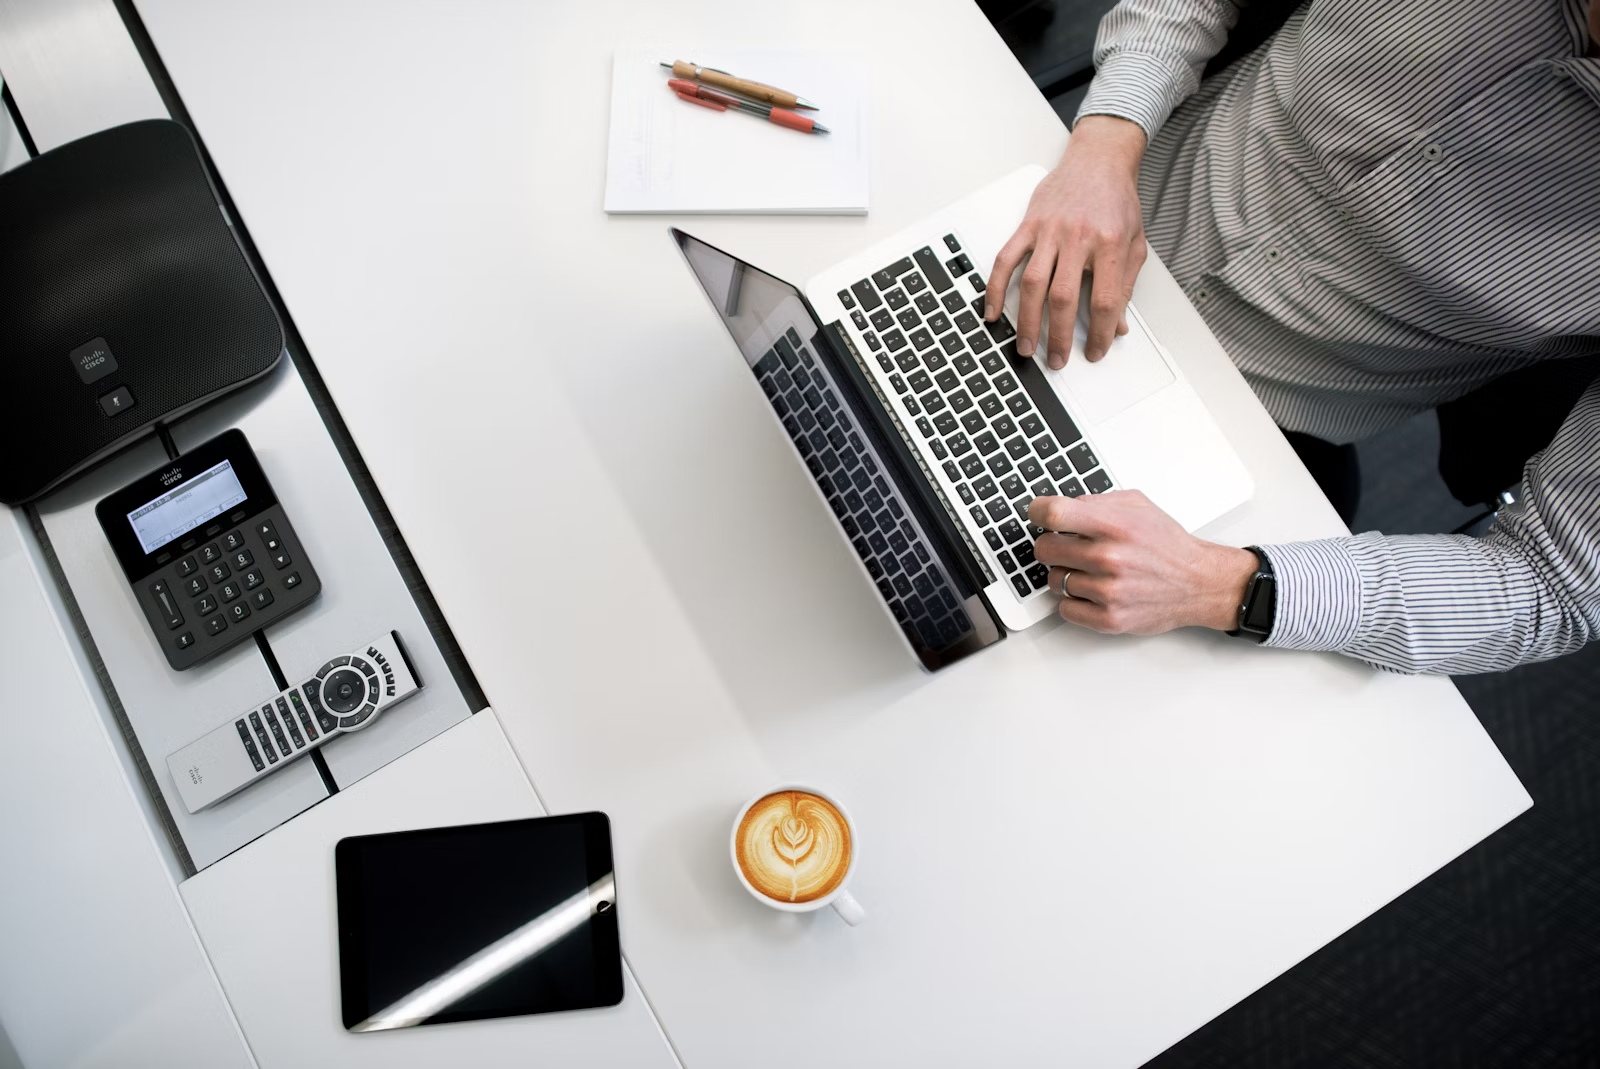
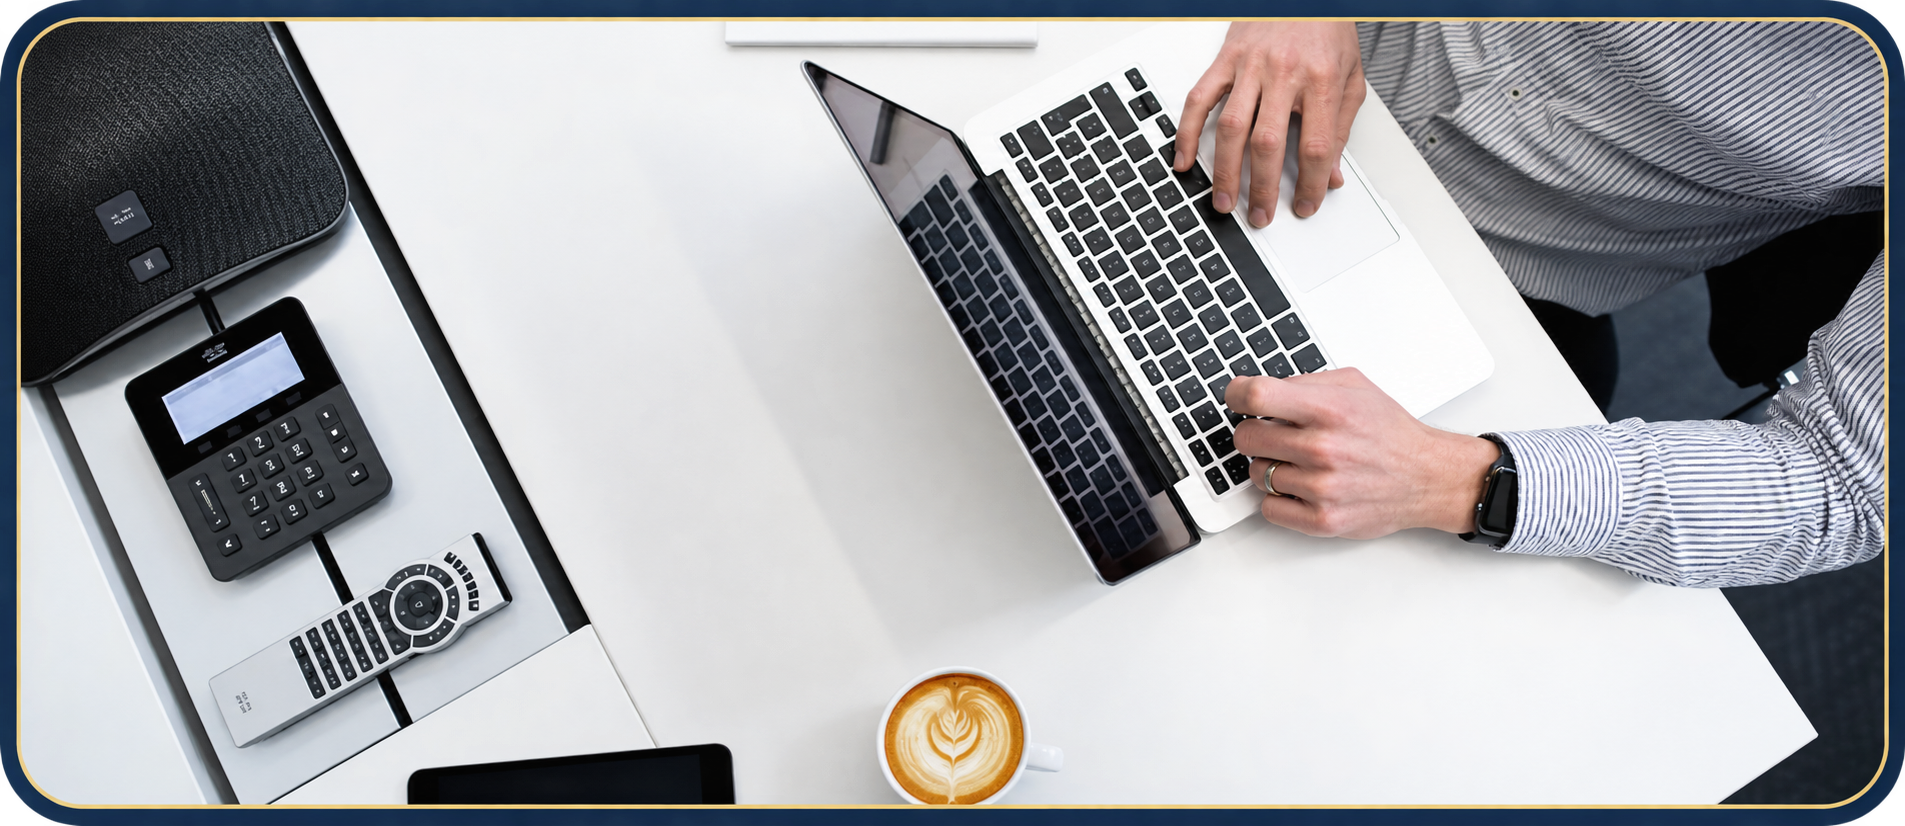
[UPDATE] Revise footer layout and content for improved clarity and aesthetics

diff --git a/src/components/Footer.tsx b/src/components/Footer.tsx
@@ -1,145 +1,84 @@
 "use client";
 import Link from "next/link";
-import Image from "next/image";
 import Logo from "./Logo";
+
+const heading = { fontFamily: "var(--font-heading)" };
+const city = "text-xs font-semibold uppercase tracking-[0.2em] text-[#1A2B6D]";
 
 export default function Footer() {
   return (
     <footer className="border-t bg-background">
-      <div className="mx-auto max-w-7xl px-4 sm:px-6 lg:px-8 py-16">
-        <div className="grid gap-12 md:grid-cols-4">
+      <div className="mx-auto max-w-7xl px-4 sm:px-6 lg:px-8 pt-8">
+        <div className="grid gap-8 md:grid-cols-2">
           {/* Logo et description */}
-          <div className="md:col-span-1">
-            <div className="mb-6">
-              <Link
-                href="/"
-                aria-label="Bilan Conseil Patrimoine — Accueil"
-                className="inline-flex items-center gap-3"
-              >
-                <Logo size="lg" />
-                <div className="flex flex-col items-center">
-                  <div className="flex items-center gap-2">
-                    <span className="text-lg font-semibold text-[#1A2B6D]" style={{ fontFamily: "var(--font-heading)" }}>BILAN</span>
-                    <span className="text-lg font-semibold text-[#1A2B6D]" style={{ fontFamily: "var(--font-heading)" }}>CONSEIL</span>
-                  </div>
-                  <span className="text-lg font-semibold text-[#1A2B6D]" style={{ fontFamily: "var(--font-heading)" }}>PATRIMOINE</span>
-                </div>
-              </Link>
-            </div>
-            <p className="text-sm text-muted-foreground leading-relaxed mb-6">
-            Cabinet indépendant de conseil patrimonial.<br />
-            Nous proposons un accompagnement sur mesure, alliant expertise, disponibilité et vision patrimoniale durable.
+          <div className="flex flex-col justify-center">
+            <Link
+              href="/"
+              aria-label="Bilan Conseil Patrimoine — Accueil"
+              className="inline-flex items-center gap-3 self-start"
+            >
+              <Logo size="lg" />
+              <span className="text-lg font-semibold leading-tight text-[#1A2B6D]" style={heading}>
+                BILAN CONSEIL<br />PATRIMOINE
+              </span>
+            </Link>
+            <p className="mt-4 max-w-sm text-sm text-[#1A2B6D] leading-relaxed">
+              Cabinet indépendant de conseil patrimonial.<br />
+              Nous proposons un accompagnement sur mesure, alliant expertise, disponibilité et vision patrimoniale durable.
             </p>
-            {/* Logo CNCGP */}
-            <div className="pt-4 border-t border-gray-200">
-              <Image
-                src="/logos/CNCGP.png"
-                alt="Logo CNCGP"
-                width={100}
-                height={50}
-                className="h-auto w-auto max-w-[100px] opacity-80"
-              />
-            </div>
-          </div>
-
-          {/* Navigation */}
-          <div>
-            <h4 className="text-sm font-semibold mb-6 text-foreground">Navigation</h4>
-            <ul className="space-y-4 text-sm">
-              <li><Link href="/notre-methode" className="text-muted-foreground hover:text-foreground hover:underline transition-colors">Notre méthode</Link></li>
-              <li><Link href="/qui-sommes-nous" className="text-muted-foreground hover:text-foreground hover:underline transition-colors">Qui sommes-nous</Link></li>
-              <li><Link href="/nos-expertises" className="text-muted-foreground hover:text-foreground hover:underline transition-colors">Nos expertises</Link></li>
-              <li><Link href="/nos-clients" className="text-muted-foreground hover:text-foreground hover:underline transition-colors">Nos clients</Link></li>
-              <li><Link href="/nos-partenaires" className="text-muted-foreground hover:text-foreground hover:underline transition-colors">Nos partenaires</Link></li>
-              <li><Link href="/contact" className="text-muted-foreground hover:text-foreground hover:underline transition-colors">Contact</Link></li>
-              <li><Link href="/mentions-legales" className="text-muted-foreground hover:text-foreground hover:underline transition-colors">Mentions légales</Link></li>
-              <li><Link href="/" className="text-muted-foreground hover:text-foreground hover:underline transition-colors">Accueil</Link></li>
-            </ul>
           </div>
 
           {/* Contact */}
           <div>
-            <h4 className="text-sm font-semibold mb-6 text-foreground">Contact</h4>
-            <ul className="space-y-4 text-sm">
-              <li className="text-muted-foreground">
-                <a href="mailto:contact@bilanconseilpatrimoine.com" className="hover:text-foreground hover:underline transition-colors">contact@bilanconseilpatrimoine.com</a>
-              </li>
-              <li className="text-muted-foreground">
-                229 rue saint honoré<br />
-                75001 Paris
-              </li>
-              <li className="text-muted-foreground">
-                Cours des bastions 13<br />
-                1205 Genève
-              </li>
-            </ul>
-          </div>
-
-          {/* Mentions légales */}
-          <div>
-            <h4 className="text-sm font-semibold mb-6 text-foreground">Mentions légales</h4>
-            <div className="space-y-4 text-sm text-muted-foreground">
-              <p>
-                <Link href="/mentions-legales" className="hover:text-foreground hover:underline transition-colors">Mentions légales</Link>
-              </p>
-              <p>ORIAS n° 24005582</p>
-              <p>Courtier en assurance</p>
-              
-              {/* Logos ORIAS et AMF */}
-              <div className="flex items-center gap-4 pt-2">
-                <div className="flex items-center gap-2">
-                  <Image
-                    src="/logos/orias.png"
-                    alt="Logo ORIAS"
-                    width={40}
-                    height={40}
-                    className="object-contain"
-                  />
-                  <span className="text-xs">ORIAS</span>
-                </div>
-                <div className="flex items-center gap-2">
-                  <Image
-                    src="/logos/AMF.png"
-                    alt="Logo AMF"
-                    width={40}
-                    height={40}
-                    className="object-contain"
-                  />
-                  <span className="text-xs">AMF</span>
-                </div>
-              </div>
-
-              {/* Réseaux sociaux */}
-              <div className="flex items-center gap-3 pt-2">
-                <Link
-                  href="https://linkedin.com/company/bilan-conseil-patrimoine"
-                  target="_blank"
-                  rel="noopener noreferrer"
-                  className="flex items-center gap-2 text-muted-foreground hover:text-foreground transition-colors"
-                >
-                  <svg className="h-5 w-5" fill="currentColor" viewBox="0 0 24 24">
+            <div className="flex items-start justify-between">
+              <Link
+                href="/contact"
+                className="inline-block border-b border-[#D4AF37] pb-1 text-xl text-[#1A2B6D] hover:opacity-80 transition-opacity"
+                style={heading}
+              >
+                Nous contacter
+              </Link>
+              <div className="flex items-center gap-4 text-muted-foreground">
+                <Link href="https://linkedin.com/company/bilan-conseil-patrimoine" target="_blank" rel="noopener noreferrer" aria-label="LinkedIn" className="hover:text-foreground transition-colors">
+                  <svg className="h-6 w-6" fill="currentColor" viewBox="0 0 24 24">
                     <path d="M20.447 20.452h-3.554v-5.569c0-1.328-.027-3.037-1.852-3.037-1.853 0-2.136 1.445-2.136 2.939v5.667H9.351V9h3.414v1.561h.046c.477-.9 1.637-1.85 3.37-1.85 3.601 0 4.267 2.37 4.267 5.455v6.286zM5.337 7.433c-1.144 0-2.063-.926-2.063-2.065 0-1.138.92-2.063 2.063-2.063 1.14 0 2.064.925 2.064 2.063 0 1.139-.925 2.065-2.064 2.065zm1.782 13.019H3.555V9h3.564v11.452zM22.225 0H1.771C.792 0 0 .774 0 1.729v20.542C0 23.227.792 24 1.771 24h20.451C23.2 24 24 23.227 24 22.271V1.729C24 .774 23.2 0 22.222 0h.003z"/>
                   </svg>
-                  <span className="text-xs">LinkedIn</span>
                 </Link>
-                <Link
-                  href="https://instagram.com/bilanconseilpatrimoine"
-                  target="_blank"
-                  rel="noopener noreferrer"
-                  className="flex items-center gap-2 text-muted-foreground hover:text-foreground transition-colors"
-                >
-                  <svg className="h-5 w-5" fill="currentColor" viewBox="0 0 24 24">
+                <Link href="https://instagram.com/bilanconseilpatrimoine" target="_blank" rel="noopener noreferrer" aria-label="Instagram" className="hover:text-foreground transition-colors">
+                  <svg className="h-6 w-6" fill="currentColor" viewBox="0 0 24 24">
                     <path d="M12 2.163c3.204 0 3.584.012 4.85.07 3.252.148 4.771 1.691 4.919 4.919.058 1.265.069 1.645.069 4.849 0 3.205-.012 3.584-.069 4.849-.149 3.225-1.664 4.771-4.919 4.919-1.266.058-1.644.07-4.85.07-3.204 0-3.584-.012-4.849-.07-3.26-.149-4.771-1.699-4.919-4.92-.058-1.265-.07-1.644-.07-4.849 0-3.204.013-3.583.07-4.849.149-3.227 1.664-4.771 4.919-4.919 1.266-.057 1.645-.069 4.849-.069zm0-2.163c-3.259 0-3.667.014-4.947.072-4.358.2-6.78 2.618-6.98 6.98-.059 1.281-.073 1.689-.073 4.948 0 3.259.014 3.668.072 4.948.2 4.358 2.618 6.78 6.98 6.98 1.281.058 1.689.072 4.948.072 3.259 0 3.668-.014 4.948-.072 4.354-.2 6.782-2.618 6.979-6.98.059-1.28.073-1.689.073-4.948 0-3.259-.014-3.667-.072-4.947-.196-4.354-2.617-6.78-6.979-6.98-1.281-.059-1.69-.073-4.949-.073zm0 5.838c-3.403 0-6.162 2.759-6.162 6.162s2.759 6.163 6.162 6.163 6.162-2.759 6.162-6.163c0-3.403-2.759-6.162-6.162-6.162zm0 10.162c-2.209 0-4-1.79-4-4 0-2.209 1.791-4 4-4s4 1.791 4 4c0 2.21-1.791 4-4 4zm6.406-11.845c-.796 0-1.441.645-1.441 1.44s.645 1.44 1.441 1.44c.795 0 1.439-.645 1.439-1.44s-.644-1.44-1.439-1.44z"/>
                   </svg>
-                  <span className="text-xs">Instagram</span>
                 </Link>
               </div>
-
-              <p className="pt-2 border-t border-border">
-                © {new Date().getFullYear()} Bilan Conseil Patrimoine.<br />
-                Tous droits réservés.
-              </p>
             </div>
+
+            <div className="mt-3 grid grid-cols-2 gap-x-8 gap-y-3 text-sm text-[#1A2B6D]">
+              <div>
+                <p className={city}>Paris</p>
+                <p className="leading-snug">229 rue Saint-Honoré<br />75001 Paris</p>
+              </div>
+              <div>
+                <p className={city}>Genève</p>
+                <p className="leading-snug">Cours des Bastions 13<br />1205 Genève</p>
+              </div>
+              <div>
+                <p className={city}>Lyon</p>
+                <p className="leading-snug">52 boulevard des Belges<br />69006 Lyon</p>
+              </div>
+              <div>
+                <p className={city}>Aix-en-Provence</p>
+                <p className="text-xs">Sur rendez-vous</p>
+              </div>
+            </div>
+          </div>
+        </div>
+
+        <div className="mt-6 border-t border-[#1A2B6D]/20 py-3 text-xs text-muted-foreground">
+          <p>SAS au capital social de 26 000 € — SIREN 930 931 456 — RCS PARIS — IAS — Conseil en Gestion de Patrimoine</p>
+          <div className="mt-2 flex flex-col gap-1 text-sm sm:flex-row sm:items-center sm:justify-between">
+            <p>© {new Date().getFullYear()} Bilan Conseil Patrimoine</p>
+            <p className="italic text-[#1A2B6D]">Membre de la CNCGP · ORIAS n° 24005582</p>
+            <Link href="/mentions-legales" className="hover:text-foreground hover:underline transition-colors">Mentions légales</Link>
           </div>
         </div>
       </div>

diff --git a/src/app/mentions-legales/page.tsx b/src/app/mentions-legales/page.tsx
@@ -64,8 +64,7 @@ export default function MentionsLegalesPage() {
         >
           <h2 className="text-2xl font-semibold" style={{ fontFamily: "var(--font-heading)" }}>Statuts & enregistrements</h2>
           <ul className="list-disc pl-6">
-            <li>ORIAS n° 24005582</li>
-            <li>COA Courtier d'assurance</li>
+            <li>COA ORIAS N°24005582</li>
           </ul>
         </motion.article>
 
@@ -84,7 +83,7 @@ export default function MentionsLegalesPage() {
             d'accès, de rectification, d'opposition, d'effacement, de limitation et de portabilité de vos données.
           </p>
           <p>
-            Pour exercer ces droits: contact@bilanconseilpatrimoine.com Vos données sont conservées pour la durée
+            Pour exercer ces droits: contact@bilanconseilpatrimoine.com.<br />Vos données sont conservées pour la durée
             strictement nécessaire aux finalités poursuivies.
           </p>
         </motion.article>

diff --git a/src/app/page.tsx b/src/app/page.tsx
@@ -44,7 +44,7 @@ export default function Home() {
                 className="mt-6 xl:mt-8 2xl:mt-10 max-w-2xl text-4xl font-semibold uppercase leading-[1.18] tracking-[0.02em] sm:text-5xl md:text-[3.25rem] lg:text-[3.45rem] xl:text-[41px]"
                 style={{ fontFamily: "var(--font-heading)" }}
               >
-                Construisons, protégeons et transmettons votre patrimoine
+                Votre patrimoine, à la mesure de vos ambitions.
               </motion.h1>
             </div>
 
